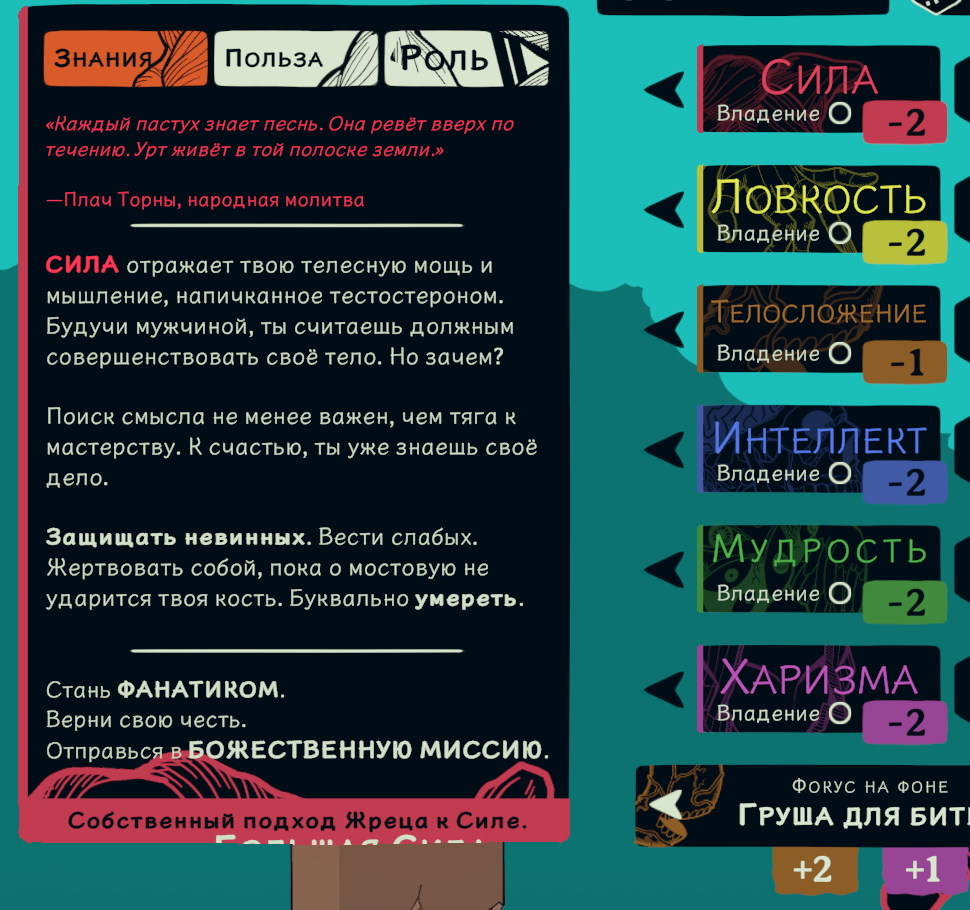
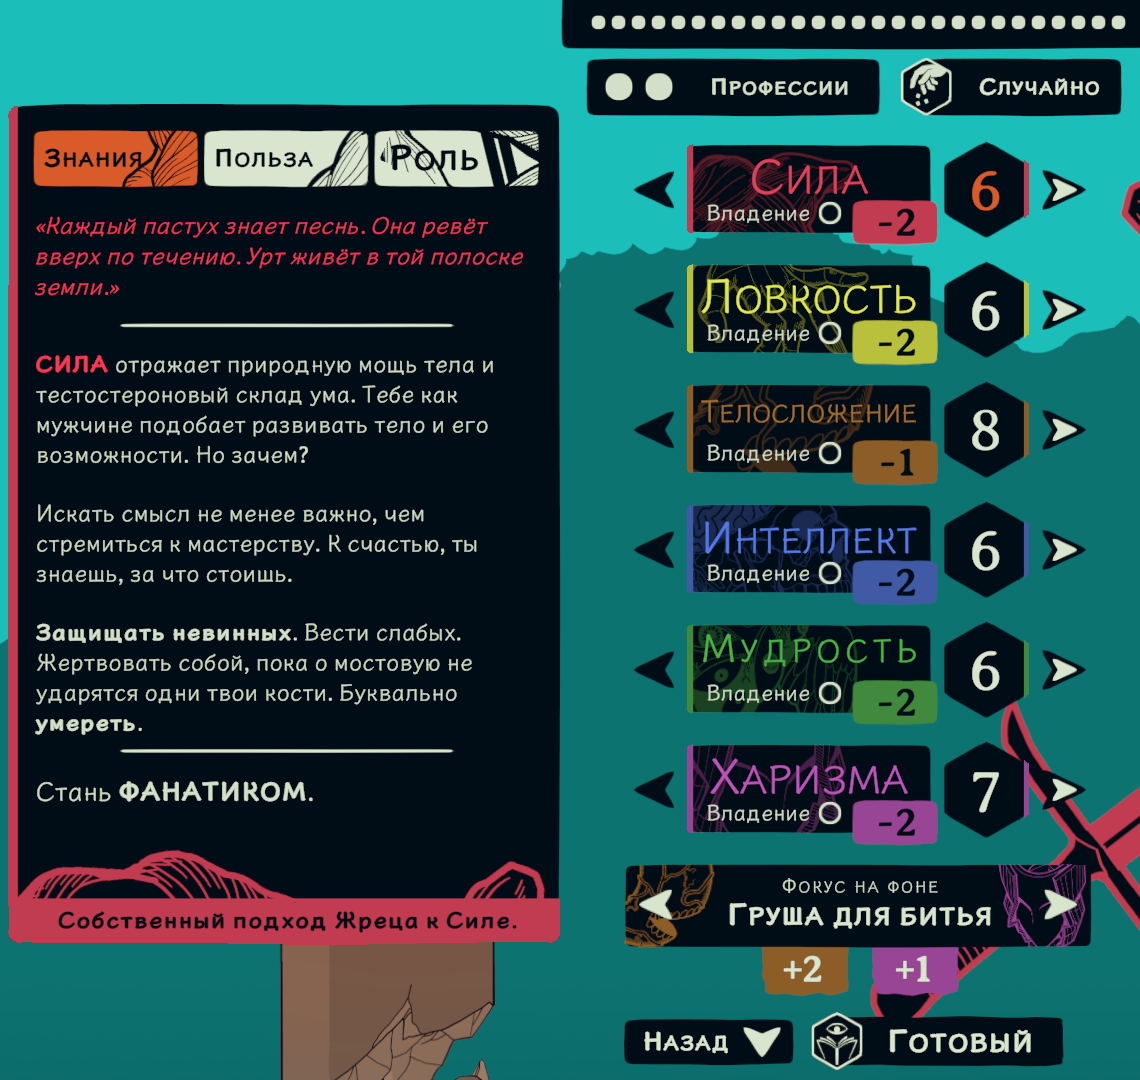
Refresh README screenshots

diff --git a/docs/screenshots/README.md b/docs/screenshots/README.md
@@ -1,21 +1,22 @@
 # Screenshots
 
-The game in Russian, taken from the build in this repository.
+Screenshots from the Russian game, cropped around the relevant interface or
+gameplay. The menu, options and character-creation captures show the current
+installed translation.
 
 | File | What it shows |
 | --- | --- |
-| `menu-ru.png` | The main menu. The menu reads «Новая игра», «Загрузка», «Настройки», «Авторы», «Выход», and the card on the right holds the saved game. |
-| `options-ru.png` | The options screen: the language row, the limits of the saves, the dialogue size, the dialogue font, the interface size. |
-| `character-ru.png` | The character sheet: the lore panel, the tabs, and the list of the abilities with the mark of proficiency. |
-| `dialogue-ru.png` | The panel of the language in the dialogue font. This is the font that carries 76,401 lines of dialogue, and it holds the full Cyrillic range. |
+| `menu-ru.png` | The Russian main menu and the saved-game card. |
+| `options-ru.png` | Language, dialogue size and font settings, with the language information panel. |
+| `character-ru.png` | Character creation, with the Strength lore and the final footnote layout. |
+| `gameplay-ru.jpg` | An in-game tooltip over a gameplay scene. |
 
 ## The dialogue fonts
 
-The game lists seven. Two of them, Ebberia and Josefin Sans, carry no Cyrillic
-at all, so a Russian player picks Ubuntu, EB Garamond, PT Serif, Roboto or
-Open Dyslexic in the options. The game says so on the screen itself; the
-screenshot shows the list.
+The game lists seven fonts. Two of them, Ebberia and Josefin Sans, carry no
+Cyrillic at all, so a Russian player picks Ubuntu, EB Garamond, PT Serif,
+Roboto or Open Dyslexic. The options screenshot shows Ubuntu selected.
 
 The lore panel is a fixed box, 541 px wide. A Russian line that does not fit
-it wraps and lands on the next block. The measurements behind the fix are in
-[../layout.md](../layout.md).
+it wraps and lands on the next block. The measurements behind the layout are
+in [../layout.md](../layout.md).

diff --git a/README_ru.md b/README_ru.md
@@ -3,6 +3,16 @@
 Полный перевод игры на русский язык: **81 891 строка** в 12 CSV-файлах (диалоги, лор, предметы,
 заклинания, интерфейс, кодекс).
 
+## Скриншоты
+
+| Главное меню | Настройки |
+| :---: | :---: |
+| ![Главное меню на русском](docs/screenshots/menu-ru.png) | ![Настройки языка и шрифта](docs/screenshots/options-ru.png) |
+
+| Создание персонажа | Игровая сцена |
+| :---: | :---: |
+| ![Создание персонажа и лор Силы](docs/screenshots/character-ru.png) | ![Подсказка в игре](docs/screenshots/gameplay-ru.jpg) |
+
 ## Как это сделано
 
 Игра (Unity 6 + IL2CPP, AppID 2057760) поставляет собственный пайплайн локализации:

diff --git a/README.md b/README.md
@@ -71,9 +71,9 @@ without touching the menu:
 | :---: | :---: |
 | ![Main menu](docs/screenshots/menu-ru.png) | ![Options](docs/screenshots/options-ru.png) |
 
-| Character sheet | Dialogue font |
+| Character creation | In-game scene |
 | :---: | :---: |
-| ![Character sheet](docs/screenshots/character-ru.png) | ![Dialogue font](docs/screenshots/dialogue-ru.png) |
+| ![Character creation and Strength lore](docs/screenshots/character-ru.png) | ![Gameplay tooltip](docs/screenshots/gameplay-ru.jpg) |
 
 ## Configuration
 
